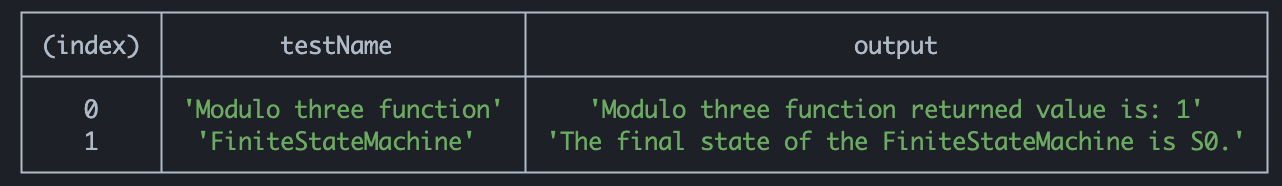
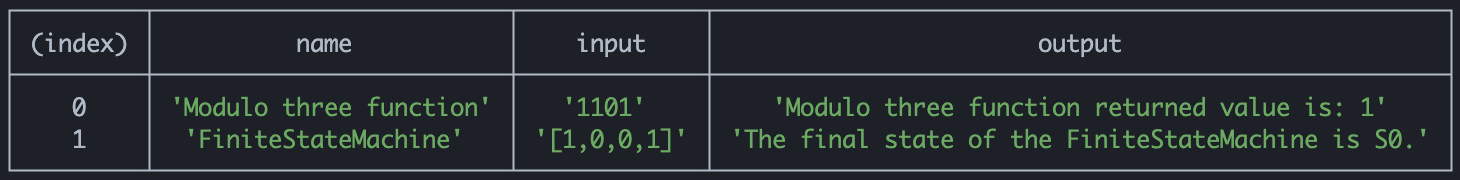
Add small fixes

diff --git a/index.ts b/index.ts
@@ -12,13 +12,15 @@ inputSequence.forEach((input) => fsm.makeTransition(input));
 const moduloThreeValue = moduloThree('1101');
 // -------------------------------------------------------
 
-const tableData: { testName: string; output: string }[] = [
+const tableData: { name: string; input: string; output: string }[] = [
   {
-    testName: 'Modulo three function',
+    name: 'Modulo three function',
+    input: '1101',
     output: `Modulo three function returned value is: ${moduloThreeValue}`,
   },
   {
-    testName: 'FiniteStateMachine',
+    name: 'FiniteStateMachine',
+    input: JSON.stringify(inputSequence),
     output: `The final state of the FiniteStateMachine is ${fsm.currentState}.`,
   },
 ];

diff --git a/README.md b/README.md
@@ -3,13 +3,12 @@
 To run the code do:
 
 ```shell
-npx tsc index.ts
-node index.js
+npx tsc index.ts && node index.js
 ```
 
 This will print the results of `FSM` and `Modulo Three` function, directly to the console.
 
-example:
+Example of output `npx tsc index.ts && node index.js`:
 ![Code output](images/fsm-output.png)
 
 To manage the output provide changes in `index.ts`
